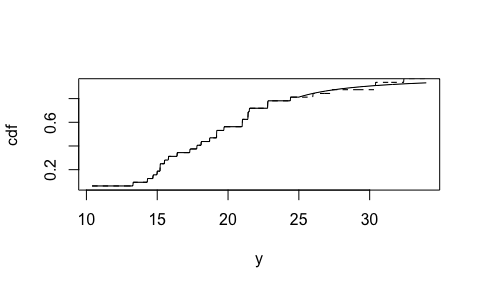
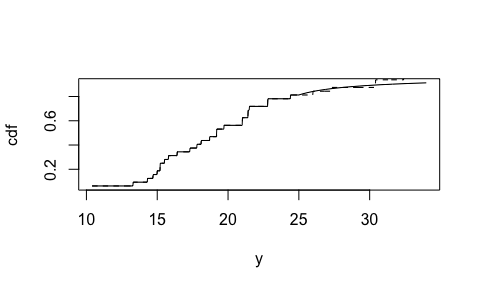
fix up README

diff --git a/README.md b/README.md
@@ -32,7 +32,8 @@ that does not follow a basic parametric form such as “Normal” or
 distributions are built by manipulation, akin to the package `dplyr`.
 
 **Note**: This package is still in its infancy. There are many other
-critical features to come.
+critical features to come. Expect breaking changes over the first
+several versions.
 
 ## Design Choices
 
@@ -58,21 +59,26 @@ Here is a Uniform distribution:
 #> Uniform Distribution
 #> 
 #> Parameters:
+#> # A tibble: 2 x 2
 #>   parameter value
-#> 1       min     2
-#> 2       max     5
+#>   <chr>     <dbl>
+#> 1 min           2
+#> 2 max           5
 #> 
 #> Number of Discontinuities:  0
 ```
 
-Evaluate functional representations, such as the cdf and hazard
-function:
+Evaluate or enframe functional representations, such as the cdf and
+hazard function:
 
 ``` r
 eval_cdf(d1, at = 3)
 #> [1] 0.3333333
-eval_hazard(d1, at = 3)
-#> [1] 0.5
+enframe_hazard(d1, at = 3)
+#> # A tibble: 1 x 2
+#>    .arg .hazard
+#>   <dbl>   <dbl>
+#> 1     3     0.5
 ```
 
 Make a mixture distribution by combining some distributions:
@@ -82,9 +88,11 @@ Make a mixture distribution by combining some distributions:
 #> Mixture Distribution
 #> 
 #> Components:
+#> # A tibble: 2 x 2
 #>   distribution weight
-#> 1     Gaussian    0.2
-#> 2     Gaussian    0.8
+#>   <chr>         <dbl>
+#> 1 Gaussian        0.2
+#> 2 Gaussian        0.8
 #> 
 #> Number of Discontinuities:  0
 plot(d2, n = 1001)
@@ -104,12 +112,25 @@ Make a graft distribution by replacing a distribution’s tail:
 
 ``` r
 d3 <- stepdst(mpg, data = mtcars)
-d4 <- graft_right(d3, dst_gpd(25, 5, 1), sep_y = 25)
+d4 <- graft_right(d3, dst_gpd(25, 5, 2), sep_y = 25)
 plot(d4, "cdf", n = 1001, to = 34)
 plot(d3, "cdf", n = 1001, lty = 2, add = TRUE)
 ```
 
 <img src="man/figures/README-unnamed-chunk-6-1.png" width="100%" style="display: block; margin: auto;" />
+
+Calculate mean, variance, etc:
+
+``` r
+variance(d1)
+#> [1] 0.75
+skewness(d2)
+#> [1] -1.073313
+mean(d3)
+#> [1] 20.09062
+evi(d4)
+#> [1] 2
+```
 
 ## Installation
 
@@ -121,8 +142,8 @@ devtools::install_github("vincenzocoia/distplyr")
 
 ## `distplyr` in Context
 
-Note that `distplyr` is *not* a modelling package, meaning it won’t
-optimize a distribution’s fit to data.
+`distplyr` is *not* a modelling package, meaning it won’t optimize a
+distribution’s fit to data.
 
 The
 [`distributions3`](https://cran.r-project.org/web/packages/distributions3/index.html)
